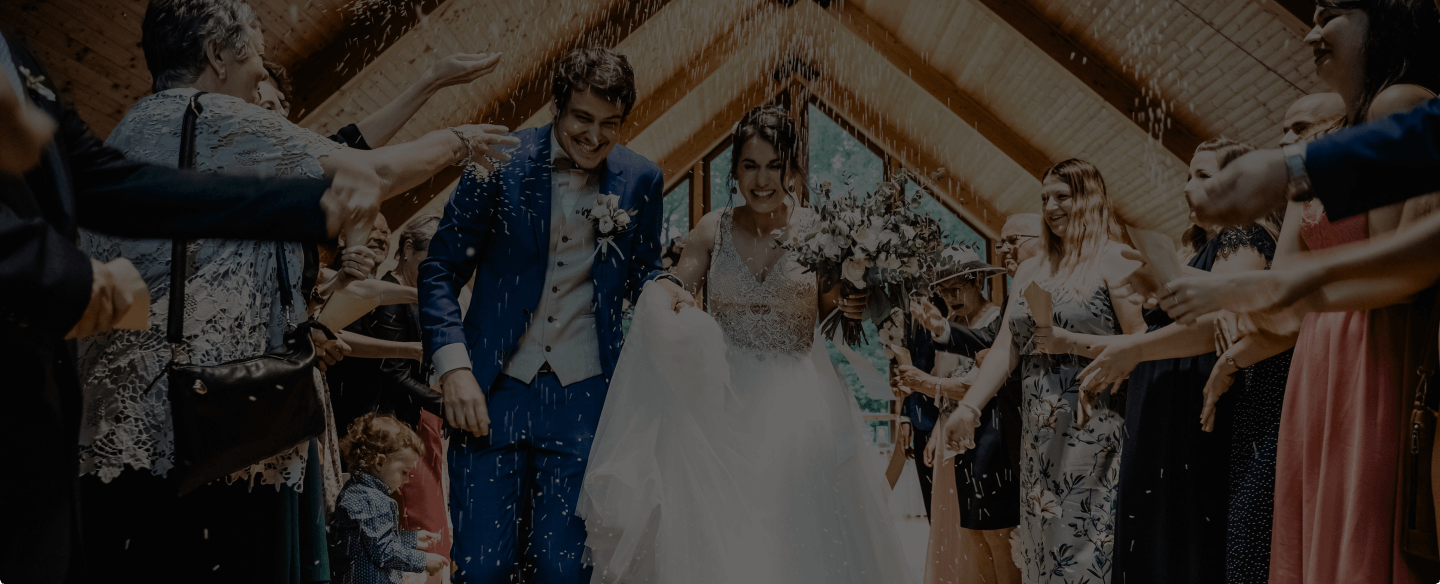
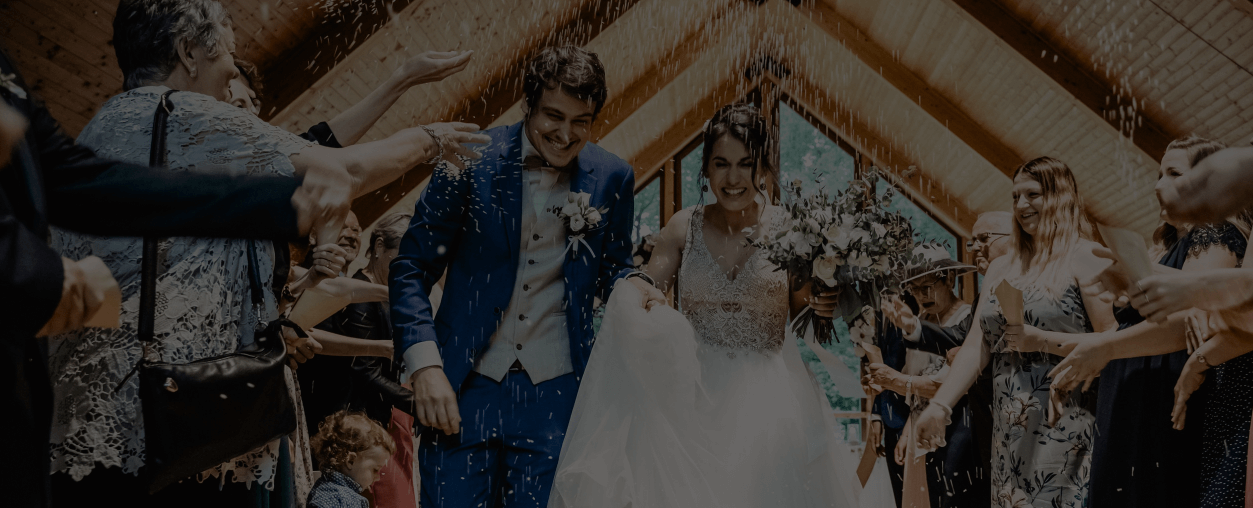
Slide with caption done

diff --git a/index.html b/index.html
@@ -41,44 +41,84 @@
 
         <!-- Banner Slide Show -->
         <section class="container-xxl p-0">
-            <div>
-                <div id="carouselExampleIndicators" class="carousel slide" data-bs-ride="carousel">
-                    <div class="carousel-indicators">
-                        <button type="button" data-bs-target="#carouselExampleIndicators" data-bs-slide-to="0"
-                            class="active" aria-current="true" aria-label="Slide 1"></button>
-                        <button type="button" data-bs-target="#carouselExampleIndicators" data-bs-slide-to="1"
-                            aria-label="Slide 2"></button>
-                        <button type="button" data-bs-target="#carouselExampleIndicators" data-bs-slide-to="2"
-                            aria-label="Slide 3"></button>
-                        <button type="button" data-bs-target="#carouselExampleIndicators" data-bs-slide-to="3"
-                            aria-label="Slide 4"></button>
-                    </div>
-                    <div class="carousel-inner">
-                        <div class="carousel-item active">
-                            <img src="./images/banner.png" class="d-block w-100 rounded-bottom" alt="Weading Photo 1">
-                        </div>
-                        <div class="carousel-item">
-                            <img src="./images/banner2e.jpg" class="d-block w-100 rounded-bottom" alt="Weading Photo 1">
-                        </div>
-                        <div class="carousel-item">
-                            <img src="./images/banner4e.jpg" class="d-block w-100 rounded-bottom" alt="Weading Photo 1">
-                        </div>
-                        <div class="carousel-item">
-                            <img src="./images/banner3e.jpg" class="d-block w-100 rounded-bottom" alt="Weading Photo 1">
-                        </div>
-                    </div>
-                    <button class="carousel-control-prev" type="button" data-bs-target="#carouselExampleIndicators"
-                        data-bs-slide="prev">
-                        <span class="carousel-control-prev-icon" aria-hidden="true"></span>
-                        <span class="visually-hidden">Previous</span>
-                    </button>
-                    <button class="carousel-control-next" type="button" data-bs-target="#carouselExampleIndicators"
-                        data-bs-slide="next">
-                        <span class="carousel-control-next-icon" aria-hidden="true"></span>
-                        <span class="visually-hidden">Next</span>
-                    </button>
+            <div id="carouselExampleCaptions" class="carousel slide" data-bs-ride="carousel">
+                <div class="carousel-indicators">
+                    <button type="button" data-bs-target="#carouselExampleCaptions" data-bs-slide-to="0" class="active"
+                        aria-current="true" aria-label="Slide 1"></button>
+                    <button type="button" data-bs-target="#carouselExampleCaptions" data-bs-slide-to="1"
+                        aria-label="Slide 2"></button>
+                    <button type="button" data-bs-target="#carouselExampleCaptions" data-bs-slide-to="2"
+                        aria-label="Slide 3"></button>
+                    <button type="button" data-bs-target="#carouselExampleCaptions" data-bs-slide-to="3"
+                        aria-label="Slide 4"></button>
                 </div>
+                <div class="carousel-inner">
+                    <div class="carousel-item active">
+                        <img src="./images/banner.png" class="d-block slide-img" alt="...">
+                        <div class="carousel-caption block">
+                            <h1>The perfect venue for your
+                                <br>
+                                next event
+                            </h1>
+                            <p>
+                                If you are looking for a convention center for any occation, we are here for you to
+                                take the action.
+                            </p>
+                            <button class="slide-btn">Book Now</button>
+                        </div>
+                    </div>
+                    <div class="carousel-item">
+                        <img src="./images/banner2e.jpg" class="d-block slide-img" alt="...">
+                        <div class="carousel-caption block">
+                            <h1>We Have
+                                <br>
+                                Professional Photographer
+                            </h1>
+                            <p>
+                                Do not miss any special moment. Take the memory with you.
+                            </p>
+                            <button class="slide-btn">Book Now</button>
+                        </div>
+                    </div>
+                    <div class="carousel-item">
+                        <img src="./images/banner4e.jpg" class="d-block slide-img" alt="...">
+                        <div class="carousel-caption block">
+                            <h1>Special Design According
+                                <br>
+                                To The Occation
+                            </h1>
+                            <p>
+                                Any kind of occation, have a different vive.
+                            </p>
+                            <button class="slide-btn">Book Now</button>
+                        </div>
+                    </div>
+                    <div class="carousel-item">
+                        <img src="./images/banner3e.jpg" class="d-block slide-img" alt="...">
+                        <div class="carousel-caption block">
+                            <h1>Fullfil Your Needs
+                                <br>
+                                As your Choice
+                            </h1>
+                            <p>
+                                Customize the event just as your dream.
+                            </p>
+                            <button class="slide-btn">Book Now</button>
+                        </div>
+                    </div>
+                </div>
+                <button class="carousel-control-prev" type="button" data-bs-target="#carouselExampleCaptions"
+                    data-bs-slide="prev">
+                    <span class="carousel-control-prev-icon" aria-hidden="true"></span>
+                    <span class="visually-hidden">Previous</span>
+                </button>
+                <button class="carousel-control-next" type="button" data-bs-target="#carouselExampleCaptions"
+                    data-bs-slide="next">
+                    <span class="carousel-control-next-icon" aria-hidden="true"></span>
+                    <span class="visually-hidden">Next</span>
+                </button>
             </div>
+
         </section>
 
     </header>

diff --git a/styles/style.css b/styles/style.css
@@ -17,3 +17,20 @@ body{
     font-size: 22px;
     font-weight: 700;
 }
+
+/* Banner Section Styles */
+
+.slide-btn{
+    background-color: white;
+    color:#3F87F5;
+    padding: 10px 40px;
+    font-weight: 700;
+    border: 0px;
+    border-radius: 5px;
+}
+
+.slide-img{
+    width: 100%;
+    height: 550px;
+    object-fit: cover;
+}
